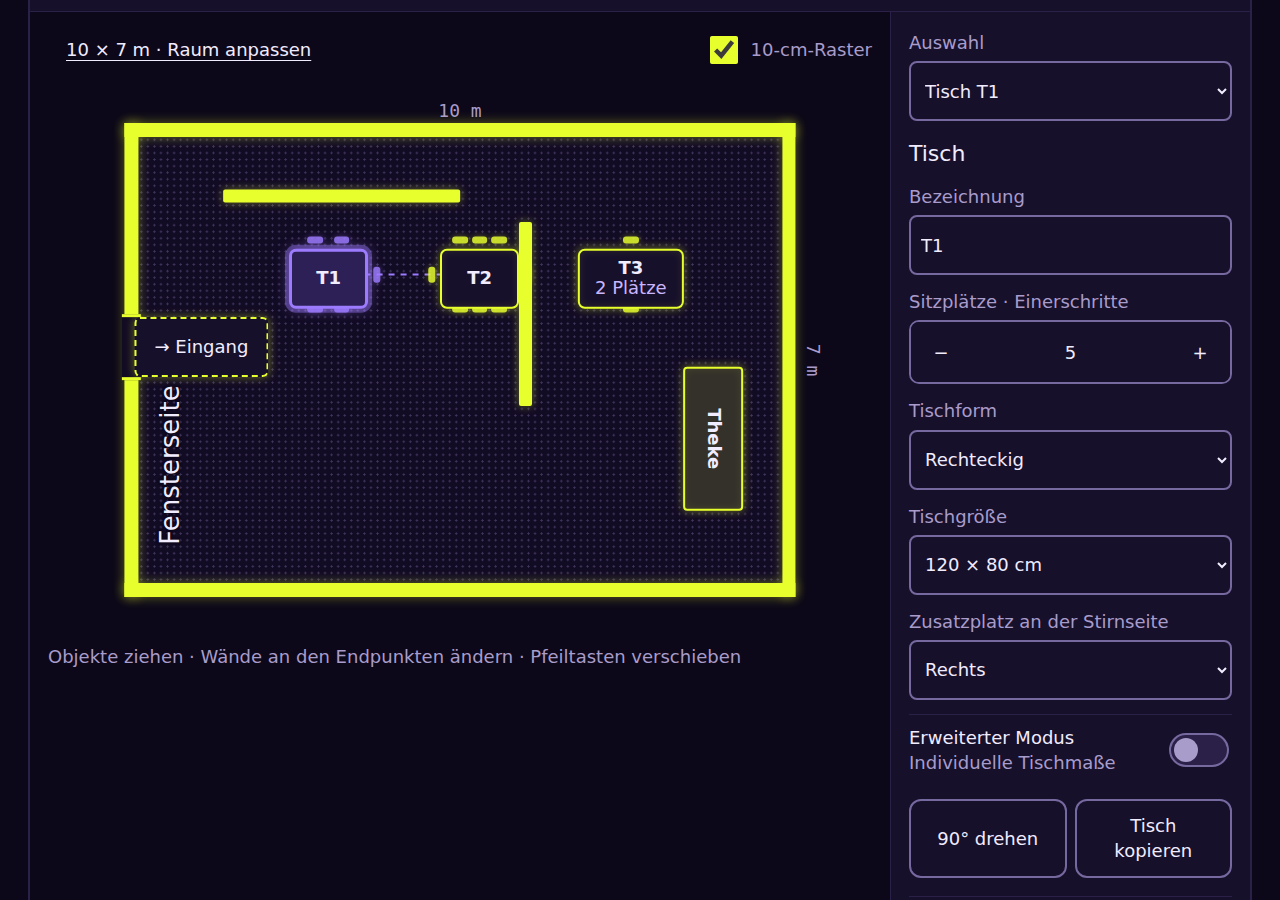
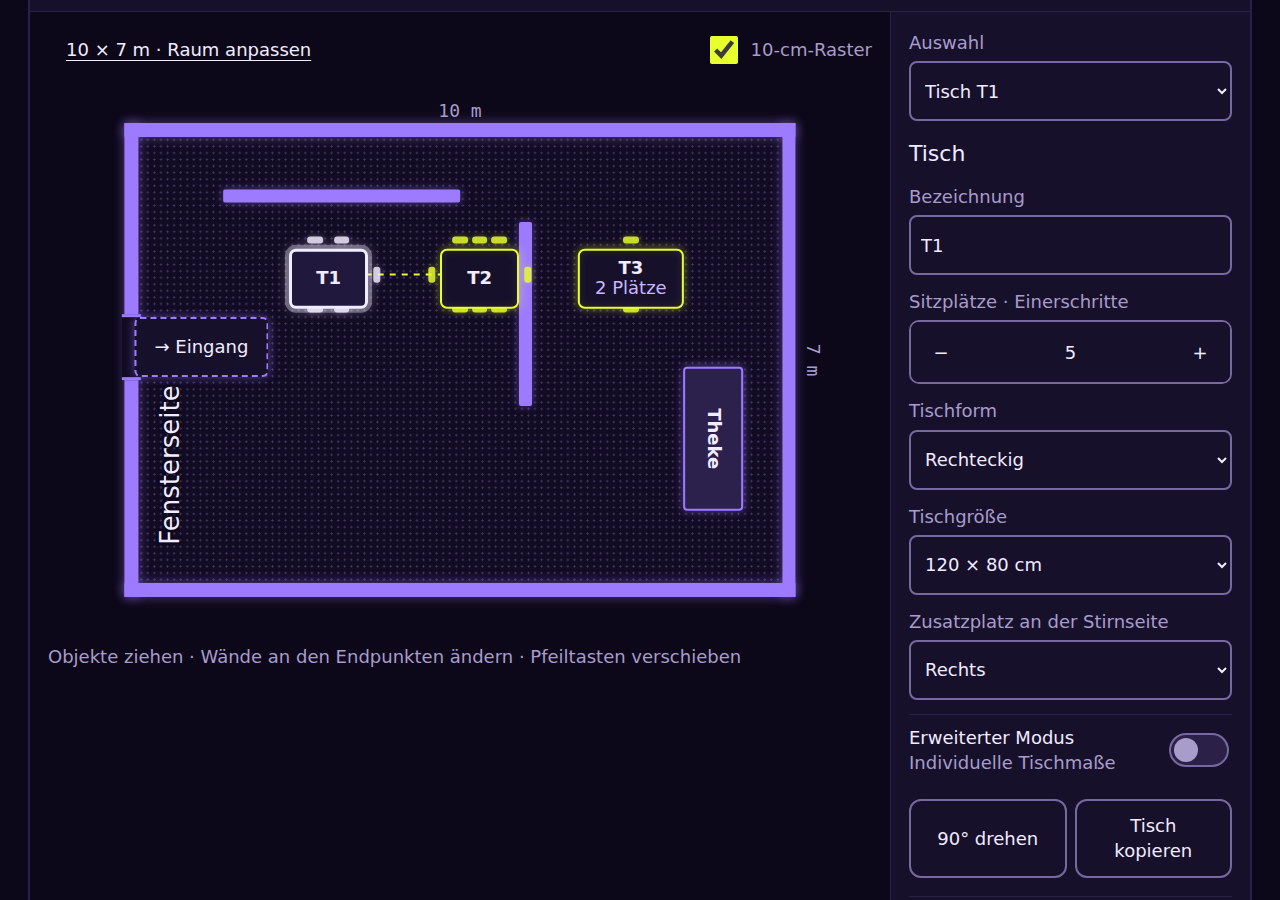
feat(gui): floor plan walls, counter and entrance in violet, tables in neon
Maxi, 03.11.2026: the tables stay neon, everything that only shapes the room glows in the violet of the board. A selection gets a white frame now that violet draws the walls, and the lines of combined tables are neon like the tables.

Changed region(s): [[0.0938, 0.1244, 0.625, 0.6844], [0.4062, 0.2489, 0.4375, 0.4667]]

diff --git a/api/gui/static/raumplan.css b/api/gui/static/raumplan.css
@@ -1,9 +1,9 @@
 /* The floor plan editor (T-3.11). Layout and behaviour of the approved design
    (gui/mockups/floor-plan-editor.html); since Maxi's word of 03.11.2026 it wears
    the colours of the board and the README (D27, app.css) instead of the
-   preview's green, one dark theme: the plan is drawn in neon like a sign on
-   midnight with white names, what is selected turns violet (being worked on),
-   coral is only removing and what went wrong. Text 4.5:1 or more on every fill; a free label
+   preview's green, one dark theme: the tables glow in neon like a sign on
+   midnight, walls, counter and entrance in violet, names in white; what is
+   selected gets a white frame; coral is only removing and what went wrong. Text 4.5:1 or more on every fill; a free label
    carries a thin dark outline so it reads on a neon wall too. Sizes follow
    docs/06 §1: controls 60 px, text 18 px. */
 
@@ -13,11 +13,13 @@
   --re-line: var(--line); --re-control: var(--line-strong);
   --re-accent: var(--accent); --re-on: var(--surface); --re-soft: var(--accent-bg);
   --re-floor: #120B24; --re-terrace: #0F0A1E;
-  --re-wood: var(--surface); --re-wood-on: var(--warn-bg); --re-counter: color-mix(in srgb, var(--accent) 14%, var(--surface));
-  --re-edge: var(--accent); --re-chair: var(--accent); --re-wall: var(--accent);
+  --re-wood: var(--surface); --re-wood-on: var(--surface-2);
+  --re-edge: var(--accent); --re-chair: var(--accent); --re-wall: var(--warn-line);
   --re-glow: color-mix(in srgb, var(--accent) 38%, transparent);
-  --re-select: var(--warn-line); --re-select-glow: color-mix(in srgb, var(--warn-line) 40%, transparent);
-  --re-link: var(--warn-line); --re-red: var(--danger);
+  --re-wall-glow: color-mix(in srgb, var(--warn-line) 45%, transparent);
+  --re-counter: color-mix(in srgb, var(--warn-line) 16%, var(--surface));
+  --re-select: var(--text); --re-select-glow: color-mix(in srgb, var(--text) 35%, transparent);
+  --re-link: var(--accent); --re-red: var(--danger);
   --re-outline: 0 0 2px var(--bg), 0 0 2px var(--bg), 0 0 3px var(--bg);
   --re-tap: var(--tap, 60px);
   color: var(--re-ink); background: var(--re-bg); border: 2px solid var(--re-line); border-radius: var(--r-lg, 14px); overflow: hidden;
@@ -61,7 +63,7 @@
 .re-floor.re-drawing .re-object, .re-floor.re-drawing .re-endpoint { pointer-events: none; }
 .re-floor.re-terrace { background-color: var(--re-terrace); }
 .re-floor.re-terrace .re-outer { background: transparent; border: 2px dashed var(--re-wall); box-shadow: none; }
-.re-outer { position: absolute; background: var(--re-wall); box-shadow: 0 0 12px var(--re-glow); pointer-events: none; z-index: 0; }
+.re-outer { position: absolute; background: var(--re-wall); box-shadow: 0 0 12px var(--re-wall-glow); pointer-events: none; z-index: 0; }
 .re-dimension { position: absolute; color: var(--re-sub); font-family: var(--font-mono, monospace); white-space: nowrap; pointer-events: none; }
 .re-dimension-x { left: 50%; top: -32px; transform: translateX(-50%); }
 .re-dimension-y { right: -12px; top: 50%; transform: translate(100%, -50%); writing-mode: vertical-rl; }
@@ -86,23 +88,23 @@
 /* Muted text reaches only 4:1 on the lighter fill of a selected table. */
 .re-selected .re-piece-seats { color: var(--re-ink); }
 .re-piece-seats[hidden] { display: none; }
-.re-counter .re-piece { background: var(--re-counter); border-radius: 4px; }
+.re-counter .re-piece { background: var(--re-counter); border-color: var(--re-wall); border-radius: 4px; box-shadow: 0 0 10px var(--re-wall-glow); }
 .re-counter.re-selected .re-piece { background: var(--re-wood-on); }
 .re-counter .re-piece-name { max-width: 200px; overflow: hidden; text-overflow: ellipsis; }
 .re-chair { position: absolute; transform: translate(-50%, -50%) rotate(var(--chair-angle, 0deg)); background: var(--re-chair); border-radius: 3px; opacity: .85; box-shadow: 0 0 6px var(--re-glow); pointer-events: none; }
 .re-selected .re-chair { background: var(--re-select); box-shadow: 0 0 6px var(--re-select-glow); }
 .re-wall-object { transform: translate(-50%, -50%) rotate(var(--re-angle)); }
 .re-wall-hit { position: absolute; inset: 0; border: 0; padding: 0; width: 100%; height: 100%; background: transparent; }
-.re-wall-bar { position: absolute; left: 0; right: 0; top: 50%; transform: translateY(-50%); height: var(--re-thickness); background: var(--re-wall); border-radius: 2px; box-shadow: 0 0 10px var(--re-glow); pointer-events: none; }
+.re-wall-bar { position: absolute; left: 0; right: 0; top: 50%; transform: translateY(-50%); height: var(--re-thickness); background: var(--re-wall); border-radius: 2px; box-shadow: 0 0 10px var(--re-wall-glow); pointer-events: none; }
 .re-selected .re-wall-bar { background: var(--re-select); box-shadow: 0 0 0 4px var(--re-select-glow), 0 0 14px var(--re-select-glow); }
 .re-wall-measure { position: absolute; left: 50%; top: calc(50% - 34px); transform: translate(-50%, -100%) rotate(calc(-1 * var(--re-angle))); color: var(--re-ink); text-shadow: var(--re-outline); font-family: var(--font-mono, monospace); font-weight: 600; white-space: nowrap; pointer-events: none; }
-.re-preview { position: absolute; background: var(--re-accent); opacity: .55; pointer-events: none; z-index: 8; }
+.re-preview { position: absolute; background: var(--re-wall); opacity: .6; pointer-events: none; z-index: 8; }
 /* The visible point is small; the target around it is 60 px (docs/06 §1). */
 .re-endpoint { position: absolute; width: 26px; height: 26px; padding: 0; transform: translate(-50%, -50%); border: 3px solid var(--re-select); background: var(--re-panel); border-radius: 50%; z-index: 7; touch-action: none; cursor: crosshair; }
 .re-endpoint::after { content: ""; position: absolute; inset: -17px; }
 .re-door-gap { position: absolute; background: var(--re-floor); transform: translate(-50%, -50%); pointer-events: none; border-inline: 3px solid var(--re-wall); }
 .re-door.re-side .re-door-gap { border-inline: 0; border-block: 3px solid var(--re-wall); }
-.re-door-button { position: absolute; transform: translate(-50%, -50%); border: 2px dashed var(--re-wall); border-radius: 6px; padding: 6px 10px; background: var(--re-wood); font-weight: 600; box-shadow: 0 0 10px var(--re-glow); white-space: nowrap; max-width: 220px; overflow: hidden; text-overflow: ellipsis; }
+.re-door-button { position: absolute; transform: translate(-50%, -50%); border: 2px dashed var(--re-wall); border-radius: 6px; padding: 6px 10px; background: var(--re-wood); font-weight: 600; box-shadow: 0 0 10px var(--re-wall-glow); white-space: nowrap; max-width: 220px; overflow: hidden; text-overflow: ellipsis; }
 .re-door-button::after, .re-label-button::after { content: ""; position: absolute; inset: -10px; }
 .re-selected .re-door-button { border: 3px solid var(--re-select); background: var(--re-wood-on); box-shadow: 0 0 0 4px var(--re-select-glow); }
 .re-label-button { position: relative; display: block; transform: translate(-50%, -50%) rotate(var(--re-label-turn, 0deg)); padding: 4px 6px; border: 2px solid transparent; background: transparent; color: var(--re-ink); text-shadow: var(--re-outline); border-radius: 6px; max-width: 240px; white-space: normal; overflow-wrap: anywhere; }

diff --git a/docs/06_GUI.md b/docs/06_GUI.md
@@ -143,7 +143,7 @@ The page `/gui/raumplan` (button „Raumplan“ in the header, next to „Kennza
 - **Tables:** name (one live „T5“ per restaurant across all rooms, whatever the case, so T-3.12 can seat a reservation on it), rectangular or round, seats in single steps from 1 to 40, a size from the presets, a quarter turn. Seats are drawn by the accepted rule: up to five an odd seat takes one end („Zusatzplatz an der Stirnseite“, left or right); from six both ends stay occupied and the rest alternate between the long sides (6 = 2 + 2 + 1 + 1, 7 = 3 + 2 + 1 + 1). „Erweiterter Modus“ opens width and depth in centimetres; switched off it locks them and keeps a custom size. It holds for the page, not across a reload. „Tisch kopieren“ gives the copy a new id and the next free number over all rooms and keeps size, shape, seats, end seat and turn, not the combinations. „Tische kombinieren“ marks pairs within the room, drawn as dashed lines.
 - **Counter, entrance, walls, labels:** a counter moves, turns and changes size, and its name stays upright and centred at every quarter turn (the preview's name stood on its head, and a name written top to bottom sat off centre, above the middle at 0 degrees and below it at 180); an entrance follows the finger along the nearest outer wall; a wall is drawn by a drag or by two taps, its end points move, and length, thickness and angle are fields; a free label has four sizes of 18, 20, 26 and 32 px, and „Drehen“ turns it across, upright to be read from below (along a left wall) and upright to be read from above; it never stands on its head (Maxi, 03.11.2026). A terrace has a dashed boundary instead of a wall.
 - **Removing asks first** (§1 rule 6): „Tisch „T5“ entfernen?“; „Rückgängig“ brings it back with its id. A removed table is soft deleted. Rooms cannot be removed yet, an entrance stays on the outer wall, a room is a rectangle: none of that was approved (README of the design).
-- **Sizes and colours:** every control outside the plan 60 px, all text 18 px or more, measured in the browser at 1280 x 800; furniture on the plan keeps its real proportions and a table too small for „5 Plätze“ shows its name only (the count stays in its label for a screen reader). The editor wears the board's and the README's colours, one dark theme (D27; Maxi, 03.11.2026, in place of the preview's green with a light and a dark look): the plan is drawn in neon on midnight like a sign, outer walls, walls, tables, chairs, counter and entrance, with a soft glow; names stay white and seat counts light violet, so text reads at 10:1 or more; what is selected turns violet (being worked on), as do the dashed lines of the pairs; a free label is white with a thin dark outline, so it reads on a neon wall too. Neon also marks the room shown and the tool in use, coral only „entfernen“ and what went wrong, dimensions and the totals are in monospace.
+- **Sizes and colours:** every control outside the plan 60 px, all text 18 px or more, measured in the browser at 1280 x 800; furniture on the plan keeps its real proportions and a table too small for „5 Plätze“ shows its name only (the count stays in its label for a screen reader). The editor wears the board's and the README's colours, one dark theme (D27; Maxi, 03.11.2026, in place of the preview's green with a light and a dark look): on midnight the tables and their chairs glow in neon like a sign, outer walls, walls, counter and entrance in violet, the dashed lines of the pairs in neon (Maxi, 03.11.2026); names stay white and seat counts light violet, so text reads at 10:1 or more; what is selected gets a white frame with a glow; a free label is white with a thin dark outline, so it reads on a neon wall too. Neon also marks the room shown and the tool in use, coral only „entfernen“ and what went wrong, dimensions and the totals are in monospace.
 - **Keyboard:** arrow keys move the selection by 10 cm (1 cm with Shift, 5 cm without the grid), Delete removes after the question, Ctrl+Z undoes, Escape stops drawing.
 - Not here: a real tablet, glare, the on-screen keyboard over the fields and a screen reader (T-3.5); clearance between pieces (a copy is placed beside its source if there is room, nothing more).
 
@@ -192,7 +192,7 @@ The page `/gui/raumplan` (button „Raumplan“ in the header, next to „Kennza
 
 ## 7. Mockup-Abnahme
 
-- **03.11.2026 – Raumplan built (T-3.11, Maxi's approved design of the same day):** production version of `gui/mockups/floor-plan-editor.html` as §3 „Raumplan“, sizes raised to §1 (controls 60 px, text 18 px), label sizes 18 to 32 px instead of 12 to 22, deletion with a question instead of the preview's undo only. Colours: the board's (D27) with the plan in neon, after Maxi's word on the first build, not the preview's green. Screenshots: `docs/design/2026-11-floor-plan/`. Checked in a headless browser at 1280 x 800 and 1180 x 800 under the proxy's Content-Security-Policy, 60 steps: the seat rule at 5 to 8 seats with both end-seat sides, the counter's name upright and centred at all four turns, a label turned from below, from above and back across, drag and arrow keys, a copy with a new id and number and without the pairs, a pair drawn and stored, custom size kept and locked, preset keeps the seats, both wall gestures and an end point, the entrance dragged onto the left wall, a label removed after the question and brought back by undo, a removed table back with its id, a terrace with its own table, both rooms after a reload, a conflict with a second tablet, a name refused by the server, a lost connection and „Nochmal speichern“, a stored save whose answer was lost followed by a new step without a false conflict, a name typed while an earlier save answers, no script error and no refused style. Not checked: a real tablet, touch with a finger, a screen reader.
+- **03.11.2026 – Raumplan built (T-3.11, Maxi's approved design of the same day):** production version of `gui/mockups/floor-plan-editor.html` as §3 „Raumplan“, sizes raised to §1 (controls 60 px, text 18 px), label sizes 18 to 32 px instead of 12 to 22, deletion with a question instead of the preview's undo only. Colours: the board's (D27) with neon tables and violet walls, counter and entrance, after Maxi's word on the first build, not the preview's green. Screenshots: `docs/design/2026-11-floor-plan/`. Checked in a headless browser at 1280 x 800 and 1180 x 800 under the proxy's Content-Security-Policy, 60 steps: the seat rule at 5 to 8 seats with both end-seat sides, the counter's name upright and centred at all four turns, a label turned from below, from above and back across, drag and arrow keys, a copy with a new id and number and without the pairs, a pair drawn and stored, custom size kept and locked, preset keeps the seats, both wall gestures and an end point, the entrance dragged onto the left wall, a label removed after the question and brought back by undo, a removed table back with its id, a terrace with its own table, both rooms after a reload, a conflict with a second tablet, a name refused by the server, a lost connection and „Nochmal speichern“, a stored save whose answer was lost followed by a new step without a false conflict, a name typed while an earlier save answers, no script error and no refused style. Not checked: a real tablet, touch with a finger, a screen reader.
 - **02.11.2026 – Panels as sheets, „Gericht aus“ grouped (T-3.8, Maxi):** both panels were a box above the columns and pushed the board down; „Gericht aus“ was one flat list. Now both open as one kind of sheet over the columns (§3 „Blätter“) and the dishes stand under a heading per category in menu order. The columns keep a height of their own (the 360 px minimum for an open panel is gone). Review round (03.11.2026): the foot of the correction names the real reason and carries the message; a strip tells of a new order or complaint under a sheet; a correction closed by the idle timer says nothing was saved; „Heute aus“ is a neutral button (coral stays for what went wrong) and the note of an order (an allergy) is a solid violet fill with dark text; dishes that are out form a first group; every category folds. Second round: the cancel line shows for 6 seconds above the columns (an event, not part of the refreshed column), a dish tap swaps only its own row, the list is not redrawn by the `dishes` event, an opened category scrolls to the top, a correction dropped by the strip says nothing was saved, a refused number is a coral sentence at the number field. Screenshots: `docs/design/2026-11-panels/`. Checked in the browser at 1280 x 800 and 1180 x 800 on both open sheets, at rest and scrolled (also a correction with eight lines): all visible text 18 px or more, text contrast 4.5:1 or more, every control 60 px, title and close button in view, the save buttons in view at the top and the bottom of the scroll, the stop button of the command bar tappable under an open sheet, focus on the title after opening and back on the opener after closing, Escape closes. Not checked: a real tablet, the on-screen keyboard over the search field, a screen reader, widths under 900 px.
 - **02.11.2026 – The colours of the README (D27, Maxi):** the view wears the brand palette of docs/15 and keeps its meaning: neon `#E8FF2E` is done and the main action, violet `#9D7BFF` is open or waiting, coral `#FF5277` is only what went wrong, on midnight `#0D0819`. Times, codes, counts and sums are in the system monospace face of the README, the text stays sans. The light theme of D26 is gone: one theme, whatever the tablet is set to. The look of `gui/mockups/betrieb-tablet.html` holds for layout, its colours are superseded; screenshots: `docs/design/2026-11-brand/`. Checked in the browser on the board, the open holiday strip, „Gericht aus“, „Korrigieren“, the key figures and the console: all visible text 18 px or more, text contrast 4.5:1 or more against its real background, every control 60 px. That check found that the columns of D26 did not scroll on their own: the whole board scrolled under the bar, against the entry below. Fixed here. Not checked: glare in a bright kitchen on a real tablet; if the dark theme fails there, a light one comes back as a token block.
 - **02.11.2026 – Betriebsansicht, Redesign (D26, replaces the mockup of 16.09.2026 for the look; screens, functions and texts stay):** Maxi approved the direction after a critique and an accessibility review of the screens at 1280 x 800. Mockup: `gui/mockups/betrieb-tablet.html`; before and after screenshots: `docs/design/2026-11-redesign/`. What changed:

diff --git a/docs/01_STATUS.md b/docs/01_STATUS.md
@@ -577,7 +577,7 @@ Details and full list: `docs/07_WORKPACKAGES.md`. Mirrored on GitHub as issues: 
 
 | Date | What |
 |---|---|
-| 03.11.2026 | **T-3.11 floor plan editor (#496), after the design Maxi approved the same day.** `/gui/raumplan` (button „Raumplan“ in the header): rooms and terraces, tables with name, shape, size presets, seats in single steps and a quarter turn, copies with a new id and number, explicit pairs of tables that combine, counters, entrances on the outer wall, drawn walls and free labels (docs/06 §3 „Raumplan“). Migration 027 (`floor_areas` with the fixtures as JSONB and a revision, `dining_tables` soft deleted with one live name per restaurant, `table_combinations`), up and down tested. `domain/reservations/floor_plan.py` stores a whole room per finished step under the restaurant's advisory lock, refuses an older revision with the room as it stands (409), takes the same save twice as no conflict, keeps tables inside their room and other restaurants' rooms and tables out of reach, writes `floor_plan.saved` and `floor_plan.area_created` to `audit_log`. The browser drags locally and saves through the CSRF-checked JSON routes; a refused step is undone with its reason, a lost connection keeps the step with „Nochmal speichern“. The two mistakes Maxi found in the preview have regression checks in node (`test_gui_floor_plan_geometry.py`): six seats are 2 + 2 + 1 + 1, the counter's name stays upright at every quarter turn. Tests: migration 027 (11), domain (26, with a lock test that fails without the lock and a name swap the database refuses), routes (19, CSRF, 409, 422, 404 for another restaurant, latency), geometry; headless browser walkthrough of 60 steps under the proxy's CSP, screenshots in `docs/design/2026-11-floor-plan/`. Save of a room with eight tables: p95 under the 300 ms budget (`test_a_save_stays_within_the_budget`). It wears the board's colours (D27) with the plan drawn in neon, not the preview's green, free labels turn and never stand on their head, and the counter's name is centred at every turn (Maxi, 03.11.2026, after the first build). The agent is unchanged: it books on seats (D28) |
+| 03.11.2026 | **T-3.11 floor plan editor (#496), after the design Maxi approved the same day.** `/gui/raumplan` (button „Raumplan“ in the header): rooms and terraces, tables with name, shape, size presets, seats in single steps and a quarter turn, copies with a new id and number, explicit pairs of tables that combine, counters, entrances on the outer wall, drawn walls and free labels (docs/06 §3 „Raumplan“). Migration 027 (`floor_areas` with the fixtures as JSONB and a revision, `dining_tables` soft deleted with one live name per restaurant, `table_combinations`), up and down tested. `domain/reservations/floor_plan.py` stores a whole room per finished step under the restaurant's advisory lock, refuses an older revision with the room as it stands (409), takes the same save twice as no conflict, keeps tables inside their room and other restaurants' rooms and tables out of reach, writes `floor_plan.saved` and `floor_plan.area_created` to `audit_log`. The browser drags locally and saves through the CSRF-checked JSON routes; a refused step is undone with its reason, a lost connection keeps the step with „Nochmal speichern“. The two mistakes Maxi found in the preview have regression checks in node (`test_gui_floor_plan_geometry.py`): six seats are 2 + 2 + 1 + 1, the counter's name stays upright at every quarter turn. Tests: migration 027 (11), domain (26, with a lock test that fails without the lock and a name swap the database refuses), routes (19, CSRF, 409, 422, 404 for another restaurant, latency), geometry; headless browser walkthrough of 60 steps under the proxy's CSP, screenshots in `docs/design/2026-11-floor-plan/`. Save of a room with eight tables: p95 under the 300 ms budget (`test_a_save_stays_within_the_budget`). It wears the board's colours (D27), tables in neon and walls, counter and entrance in violet, not the preview's green, free labels turn and never stand on their head, and the counter's name is centred at every turn (Maxi, 03.11.2026, after the first build). The agent is unchanged: it books on seats (D28) |
 | 03.11.2026 | **"Aufnahme stoppen" is heard during the farewell and the sentence before a transfer (#522, docs/09 L2).** Once a hangup or transfer was queued the session dropped every utterance while the caller tape kept writing, and the handler ignored calls in `_ending`: a stop said into the farewell after a confirmed booking, or into the sentence before a transfer, kept the file for 30 days although `SAY_HOW_TO_STOP` promised a stop at any time. While the ending waits for its sentence, the session now still feeds the ear on a call with a recording to stop and hands only a finished utterance to the core (`on_talked_over`, `CallSession._hears_a_stop`); the handler finds calls in `_ending` there and takes a stop and nothing else, with no notice behind the last sentence. The session keeps the file name after the tape ended at the handover, so a withdrawal deletes it, and tells the line of a recorded `shadow` team leg only with the transfer, so a stop said into the way to stop keeps that leg off the file. An ear that fails while only a stop is listened for costs the ending nothing. Red tests first: 8 failed on `main` (`test_recording_consent.py`: farewell and transfer with the file deleted, the stop said twice, `shadow`; `test_telephony_session.py`: the stop reaches the core as no turn, the file goes after the handover, the team leg stays off), besides guards for a call without a recording, a stop after the line is gone, a late report after the end of the leg and a failing ear. docs/20 §4 and assumption (h) of the recording consent synced |
 | 03.11.2026 | **A notice past the last start points to another day (#527, Codex on #513).** Inside the notice, with no slot of the day left outside it in any service (240 minutes from 19:00 against a last start of 21:30, or a full rest of the evening), `check_slot` asked "Zu welcher anderen Uhrzeit passt es Ihnen?", every time named that evening was refused the same way, and the ladder escalated. `_say_too_soon` now ends with `ASK_OTHER_DAY` ("Auch später an dem Tag geht es leider nicht mehr. Welcher andere Tag passt Ihnen?"): no existing sentence asked for another day, so it follows "Welcher frühere Tag passt Ihnen?" of the horizon. It names no day, so a closed Monday after a Sunday is not promised. A lunch inside the notice with the evening still free keeps the question for another time. Tests in `test_domain_reservation_notice.py`, red before: the issue's case for 20:00 and 21:30, the full evening, a notice one minute past the last start, the Sunday before the closed Monday; guards: one slot left, a notice ending exactly on the last start, lunch with a free evening. Eval `reservierung_0044` (red on main). docs/04 synced |
 | 03.11.2026 | **`POST /v1/calls/end` exists in dev and test only too (Maxi, 03.11.2026).** The voice layer ends its calls in its own process (`telephony/handler.py`), so outside dev and test nothing needs the route; a token holder who knew a call's id could end its log early. `add_local_routes` in `api/main.py` registers both call routes; tests: each is present in dev and test, absent with a 404 in production, prod and staging, and registered once in the app under test. Maxi also accepted the choices (b) to (h) of the default address at the team's mark as built |

diff --git a/docs/design/floor-plan/README.md b/docs/design/floor-plan/README.md
@@ -26,7 +26,7 @@ browser permits it; it is not a backup or production persistence.
   it does not replace D27's operations-board styling elsewhere.
   Superseded for the colours (Maxi, 03.11.2026, after the first production
   build): the editor wears the board's D27 palette and its one dark theme, the
-  plan drawn in neon, the selection in violet. Free labels also turn now
+  tables in neon, walls, counter and entrance in violet, the selection in white. Free labels also turn now
   (across, upright from below, upright from above). Layout and the rest of the
   behaviour stay as approved.
 - Maxi chose HTMX with native pointer events over introducing React for this
